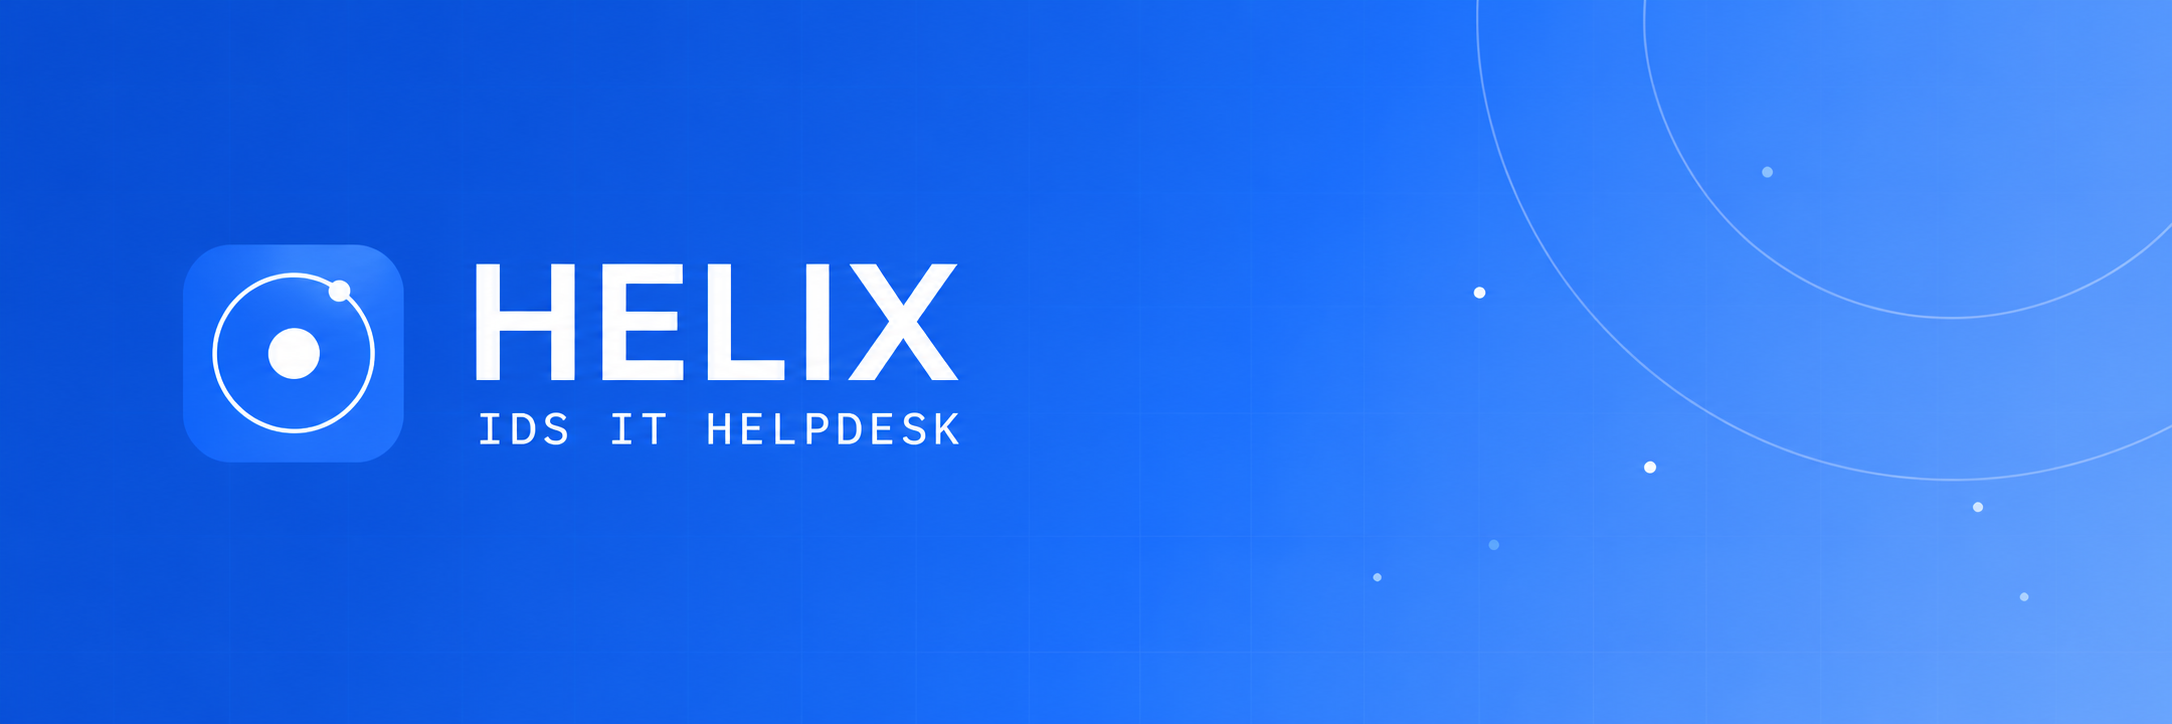
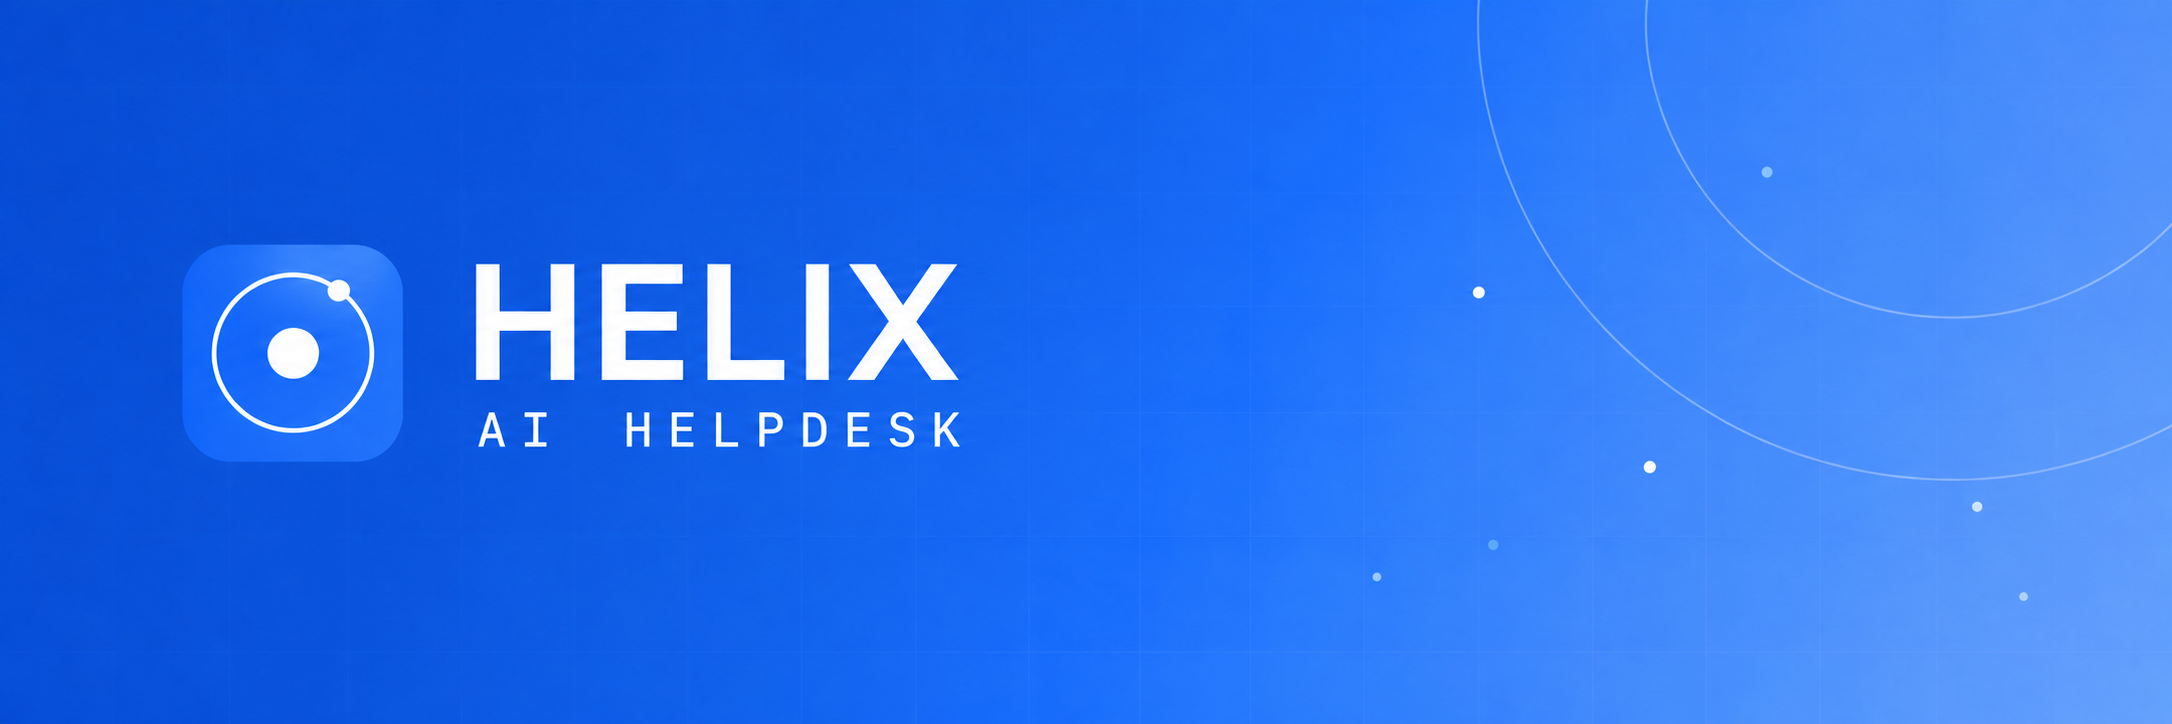
Rebrand helpdesk as HELIX AI and expose company name

Changed region(s): [[0.2159, 0.547, 0.4319, 0.6381], [0.1234, 0.5773, 0.1542, 0.6077]]

diff --git a/frontend/src/components/AuthShell.tsx b/frontend/src/components/AuthShell.tsx
@@ -1,5 +1,6 @@
 import type { ReactNode } from "react";
-import { Activity, ArrowUpRight, Bot, ShieldCheck } from "lucide-react";
+import { Activity, ArrowUpRight, ShieldCheck } from "lucide-react";
+import { HelixLogoMark } from "@/components/HelixLogoMark";
 
 type AuthShellProps = { eyebrow: string; title: string; description: string; children: ReactNode };
 
@@ -11,8 +12,8 @@ export function AuthShell({ eyebrow, title, description, children }: AuthShellPr
         <div className="absolute -right-32 -top-32 size-[520px] rounded-full border border-white/10" />
         <div className="absolute -right-12 -top-12 size-[360px] rounded-full border border-white/15" />
         <div className="relative flex items-center gap-3">
-          <div className="flex size-11 items-center justify-center rounded-xl border border-white/25 bg-white/12 backdrop-blur"><Bot className="size-5" /></div>
-          <div><p className="text-sm font-semibold">IDS IT Helpdesk</p><p className="font-mono text-[9px] uppercase tracking-[0.18em] text-white/65">HELIX operations layer</p></div>
+          <HelixLogoMark className="size-11 ring-1 ring-white/25" />
+          <div><p className="text-sm font-semibold">HELIX AI Helpdesk</p><p className="font-mono text-[9px] uppercase tracking-[0.18em] text-white/65">Intelligent IT operations</p></div>
         </div>
 
         <div className="relative max-w-2xl">
@@ -32,8 +33,8 @@ export function AuthShell({ eyebrow, title, description, children }: AuthShellPr
         <div className="signal-grid pointer-events-none absolute inset-x-0 top-0 h-48 opacity-50 lg:hidden" />
         <div className="relative w-full max-w-md">
           <div className="mb-9 flex items-center gap-3 lg:hidden">
-            <div className="helix-gradient flex size-10 items-center justify-center rounded-xl text-white"><Bot className="size-4" /></div>
-            <div><p className="text-sm font-semibold">IDS IT Helpdesk</p><p className="font-mono text-[9px] uppercase tracking-[0.16em] text-muted-foreground">Powered by HELIX</p></div>
+            <HelixLogoMark className="size-10" />
+            <div><p className="text-sm font-semibold">HELIX AI Helpdesk</p><p className="font-mono text-[9px] uppercase tracking-[0.16em] text-muted-foreground">Intelligent IT operations</p></div>
           </div>
           <p className="section-label text-primary">{eyebrow}</p>
           <h1 className="mt-3 text-3xl font-semibold tracking-[-0.05em] sm:text-4xl">{title}</h1>

diff --git a/frontend/src/components/SidebarNav.tsx b/frontend/src/components/SidebarNav.tsx
@@ -23,11 +23,11 @@ import {
 } from "lucide-react";
 
 import { logout } from "@/lib/api/auth";
-import { getSettings } from "@/lib/api/settings";
 import { Avatar, AvatarFallback, AvatarImage } from "@/components/ui/avatar";
 import { getInitials, getAvatarSrc } from "@/lib/avatar";
 import { getMyProfile } from "@/lib/api/profile";
 import type { Role } from "@/types";
+import { HelixLogoMark } from "@/components/HelixLogoMark";
 
 type NavItem = { href: string; label: string; icon: React.ComponentType<{ className?: string }> };
 type NavSection = { section?: string; items: NavItem[] };
@@ -77,7 +77,6 @@ function SidebarContent({ pathname, collapsed = false, onCollapsedChange, onNavi
   const [accountMenuOpen, setAccountMenuOpen] = useState(false);
   const { data: profile } = useQuery({ queryKey: ["my-profile"], queryFn: getMyProfile, staleTime: 60000 });
   const role = (["Admin", "Agent", "Manager", "Employee"] as string[]).includes(profile?.role ?? "") ? profile!.role as Role : "Employee";
-  const { data: settings } = useQuery({ queryKey: ["sidebar-settings"], queryFn: getSettings, staleTime: 120000 });
 
   useEffect(() => {
     if (!accountMenuOpen) return;
@@ -107,14 +106,11 @@ function SidebarContent({ pathname, collapsed = false, onCollapsedChange, onNavi
   return (
     <div className="flex h-full flex-col border-r border-sidebar-border bg-sidebar">
       <div className={`relative flex h-16 shrink-0 items-center border-b border-sidebar-border ${collapsed ? "justify-center px-2" : "gap-3 px-5"}`}>
-        <div className="helix-gradient relative flex size-10 shrink-0 items-center justify-center rounded-xl text-white">
-          <span className="absolute inset-[5px] rounded-full border border-white/35" />
-          <span className="size-2 rounded-full bg-white" />
-        </div>
+        <HelixLogoMark className="size-10" />
         {!collapsed && (
           <div className="min-w-0">
-            <p className="truncate text-sm font-semibold">{settings?.companyName ?? "IT Help Desk"}</p>
-            <p className="font-mono text-[9px] uppercase tracking-[0.18em] text-muted-foreground">Powered by HELIX</p>
+            <p className="truncate text-sm font-semibold">HELIX AI Helpdesk</p>
+            <p className="truncate font-mono text-[9px] uppercase tracking-[0.18em] text-muted-foreground">{profile?.companyName ?? "Your organization"}</p>
           </div>
         )}
         {onCollapsedChange && (

diff --git a/frontend/src/components/HelixLogoMark.tsx b/frontend/src/components/HelixLogoMark.tsx
@@ -1,0 +1,17 @@
+type HelixLogoMarkProps = {
+  className?: string;
+};
+
+/** HELIX's ripple mark, matching the README banner. */
+export function HelixLogoMark({ className = "" }: HelixLogoMarkProps) {
+  return (
+    <span
+      aria-hidden="true"
+      className={`helix-gradient relative inline-block shrink-0 overflow-hidden rounded-[24%] shadow-[0_10px_28px_rgba(23,105,255,0.28),inset_0_1px_rgba(255,255,255,0.25)] ${className}`}
+    >
+      <span className="absolute inset-[14%] rounded-full border-[1.5px] border-white/90" />
+      <span className="absolute left-1/2 top-1/2 size-[23%] -translate-x-1/2 -translate-y-1/2 rounded-full bg-white shadow-[0_0_10px_rgba(255,255,255,0.72)]" />
+      <span className="absolute left-[67%] top-[20%] size-[10%] rounded-full bg-white shadow-[0_0_8px_rgba(255,255,255,0.68)]" />
+    </span>
+  );
+}

diff --git a/frontend/src/app/layout.tsx b/frontend/src/app/layout.tsx
@@ -5,7 +5,7 @@ import { Providers } from "@/lib/providers";
 import { ThemeProvider } from "@/lib/theme-provider";
 
 export const metadata: Metadata = {
-  title: "HELIX | IDS IT Helpdesk",
+  title: "HELIX AI Helpdesk",
   description: "Intelligent IT operations, ticketing, and support workspace",
 };
 

diff --git a/frontend/src/types/index.ts b/frontend/src/types/index.ts
@@ -24,6 +24,7 @@ export type UserProfile = {
   fullName: string;
   email: string;
   role: string;
+  companyName: string;
   department?: string;
   avatarUrl?: string | null;
   isActive: boolean;

diff --git a/backend/Services/ProfileService.cs b/backend/Services/ProfileService.cs
@@ -26,7 +26,7 @@ namespace HelpdeskApi.Services
             }
 
             await _dbContext.Entry(user).Reference(u => u.Role).LoadAsync();
-            return _mapper.Map<UserProfileDto>(user);
+            return await BuildProfileDtoAsync(user);
         }
 
         public async Task<UserProfileDto?> UpdateProfileAsync(Guid userId, UpdateProfileDto dto)
@@ -45,7 +45,7 @@ namespace HelpdeskApi.Services
             await _dbContext.SaveChangesAsync();
 
             await _dbContext.Entry(user).Reference(u => u.Role).LoadAsync();
-            return _mapper.Map<UserProfileDto>(user);
+            return await BuildProfileDtoAsync(user);
         }
 
         public async Task UpdateAvatarAsync(Guid userId, string? avatarUrl)
@@ -64,6 +64,17 @@ namespace HelpdeskApi.Services
         {
             var user = await _dbContext.Users.FindAsync(userId);
             return user?.AvatarUrl;
+        }
+
+        private async Task<UserProfileDto> BuildProfileDtoAsync(User user)
+        {
+            var profile = _mapper.Map<UserProfileDto>(user);
+            var companyName = await _dbContext.SystemSettings
+                .Where(setting => setting.Key == "companyName")
+                .Select(setting => setting.Value)
+                .FirstOrDefaultAsync();
+            profile.CompanyName = string.IsNullOrWhiteSpace(companyName) ? "Your organization" : companyName;
+            return profile;
         }
 
         private static ActivityLog ActivityLogEntry(Guid userId, string action, string entityType, Guid? entityId)

diff --git a/backend/DTOs/UserProfileDto.cs b/backend/DTOs/UserProfileDto.cs
@@ -6,6 +6,7 @@ namespace HelpdeskApi.DTOs
         public string FullName { get; set; } = string.Empty;
         public string Email { get; set; } = string.Empty;
         public string Role { get; set; } = string.Empty;
+        public string CompanyName { get; set; } = string.Empty;
         public string? Department { get; set; }
         public string? AvatarUrl { get; set; }
         public bool IsActive { get; set; }

diff --git a/README.md b/README.md
@@ -1,5 +1,5 @@
 <p align="center">
-  <img src="docs/images/helix-readme-banner.png" alt="HELIX — IDS IT Helpdesk" width="100%" />
+  <img src="docs/images/helix-readme-banner.png" alt="HELIX AI Helpdesk" width="100%" />
 </p>
 
 <p align="center">
@@ -19,7 +19,7 @@
   <img alt="Tests: xUnit" src="https://img.shields.io/badge/tests-xUnit-22c55e" />
 </p>
 
-# HELIX — IDS IT Helpdesk
+# HELIX AI Helpdesk
 
 HELIX is a self-hosted IT service management platform that brings ticketing, automation, reporting, and an approval-gated AI agent into one role-aware workspace.
 
